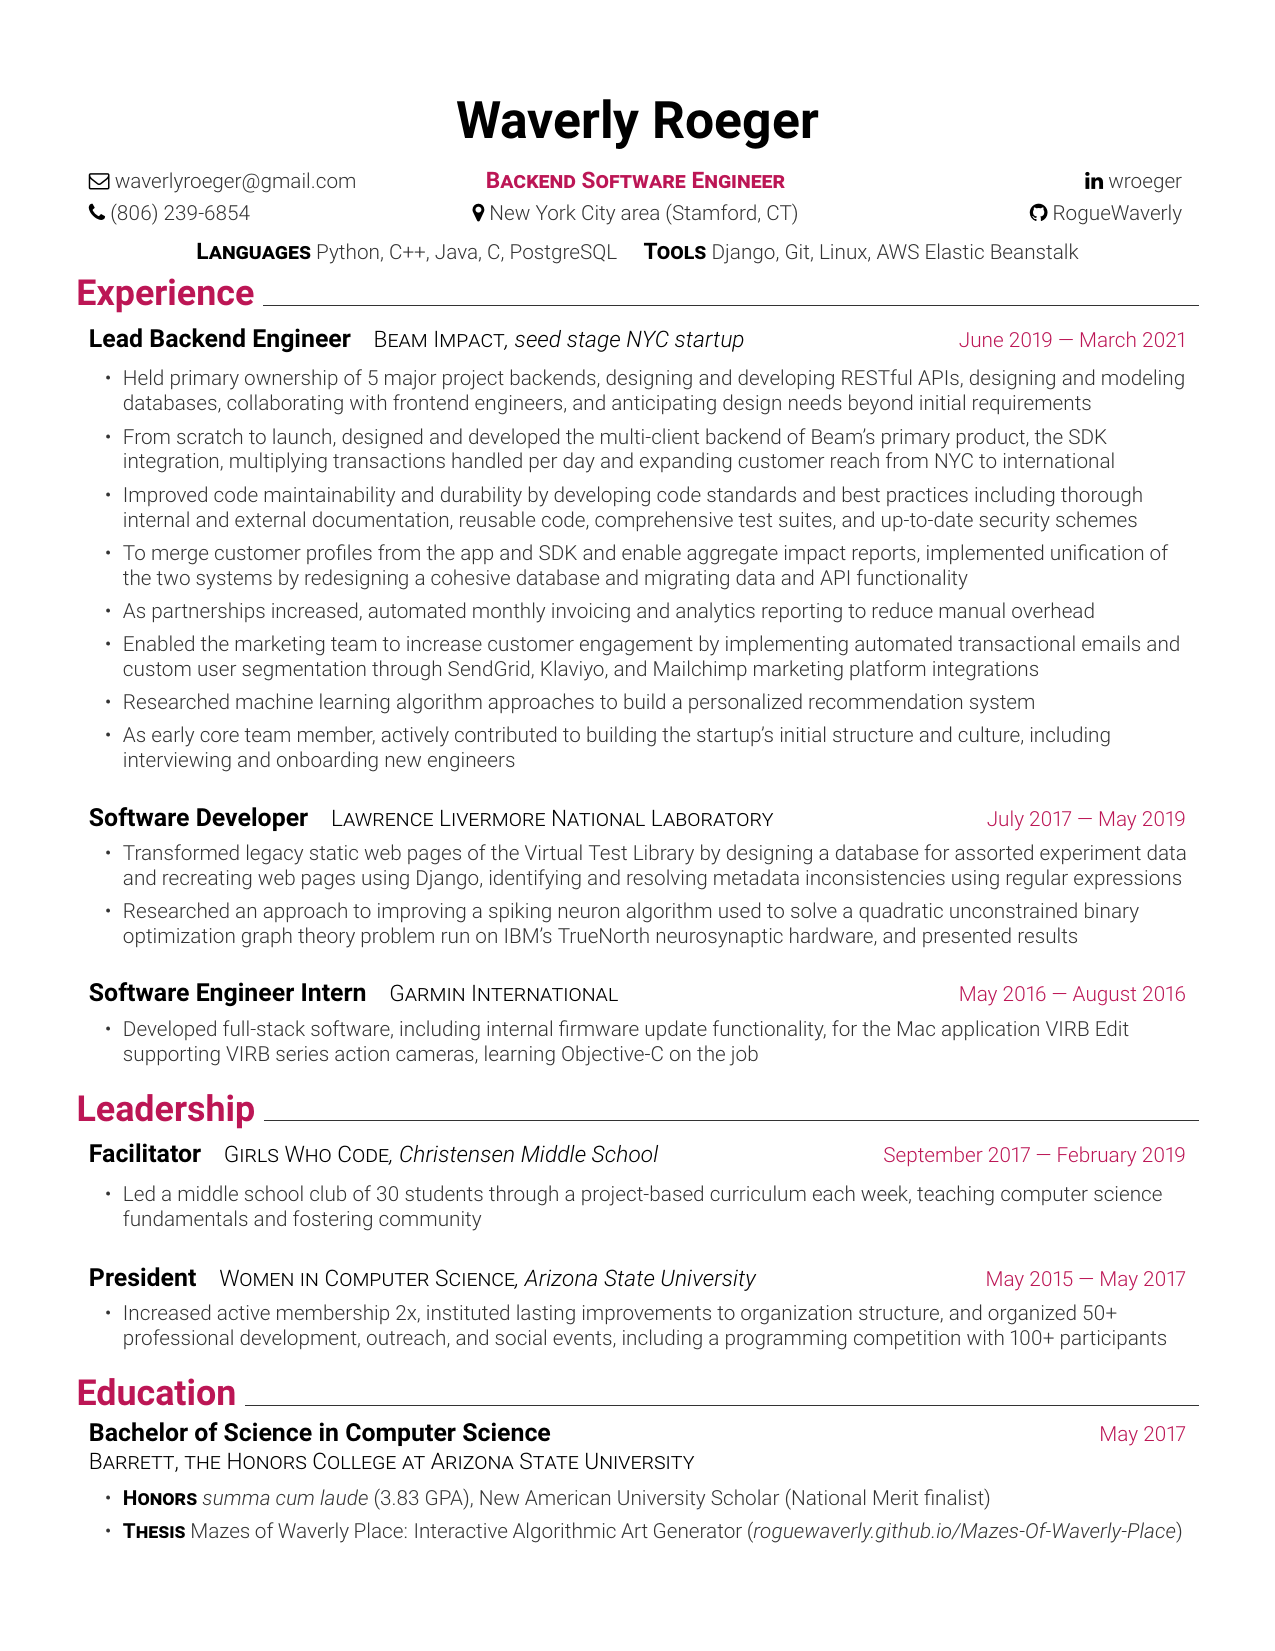
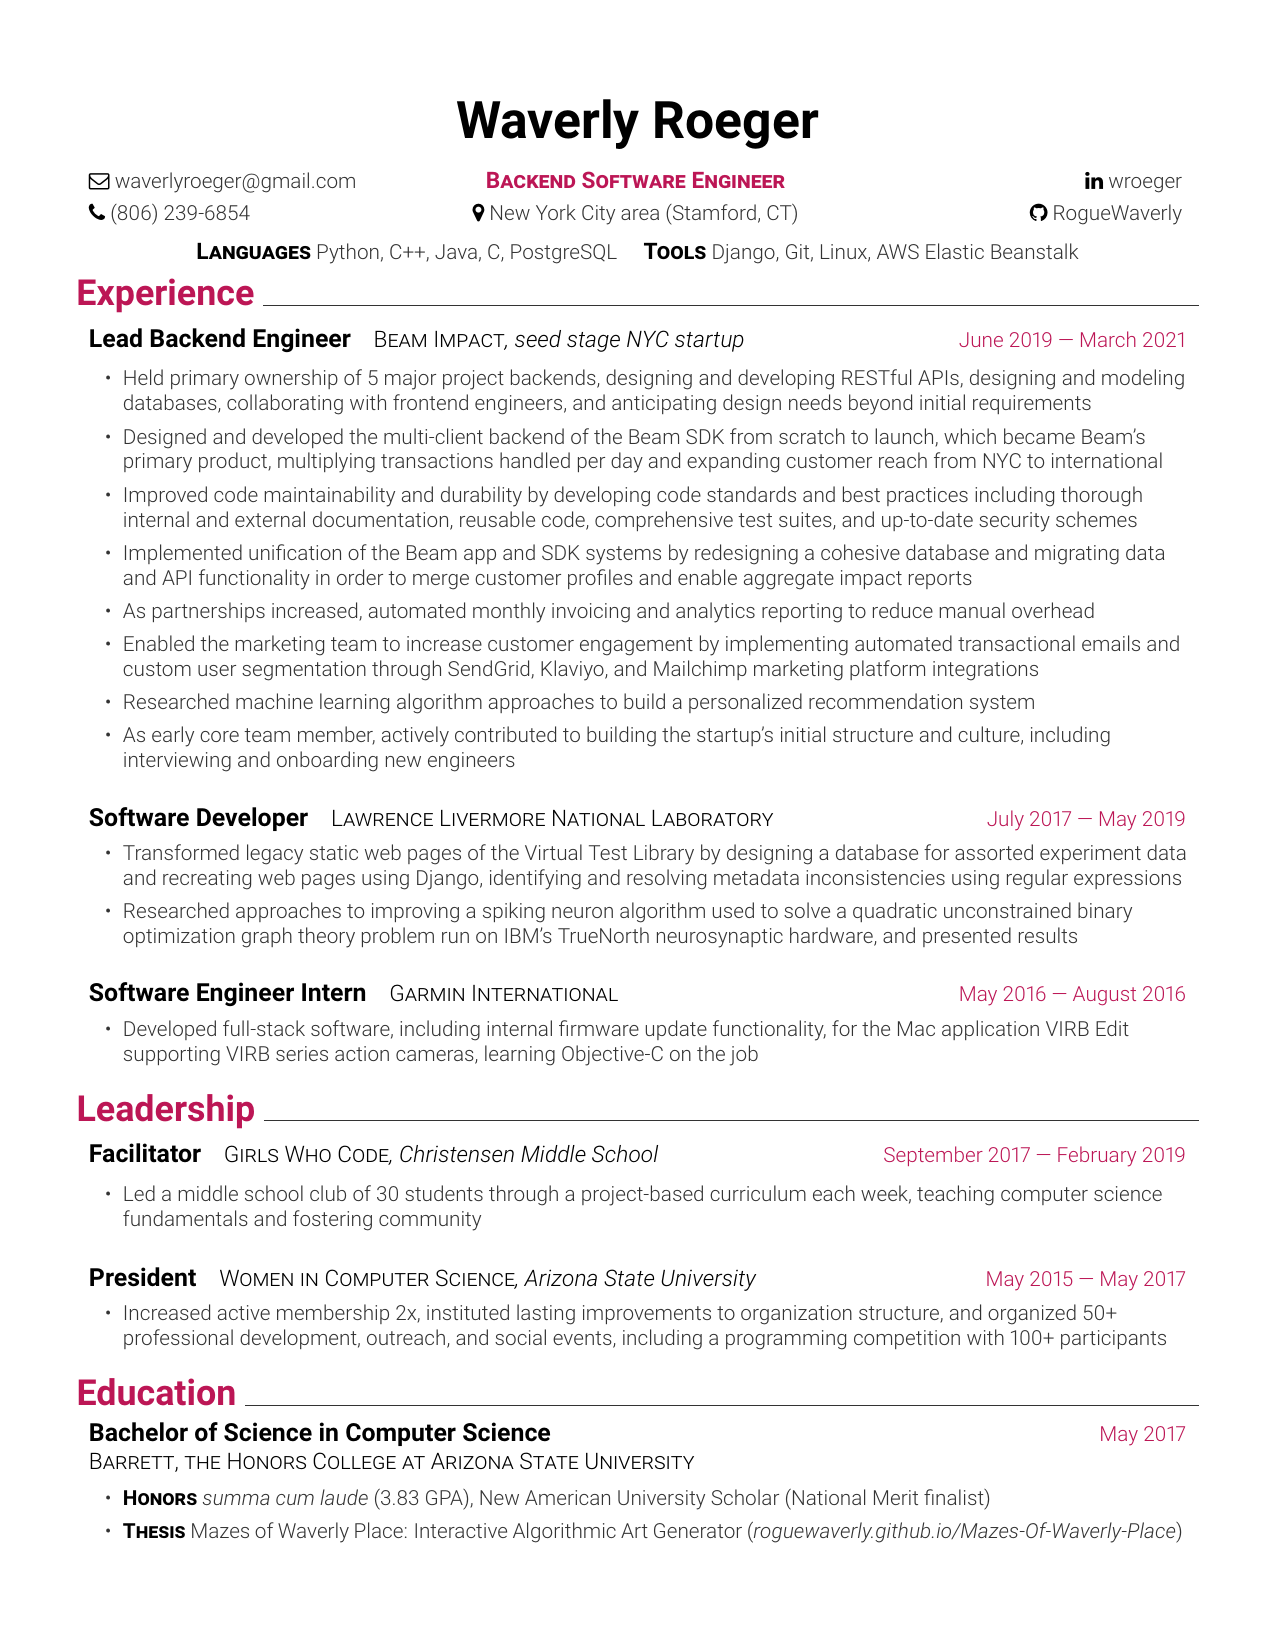
Update bullet points for clarity and accuracy

Changed region(s): [[0.0918, 0.2471, 0.9176, 0.3707], [0.2141, 0.5251, 0.8871, 0.556]]

diff --git a/resume.tex b/resume.tex
@@ -128,11 +128,11 @@
     \resumeItem
     {Held primary ownership of 5 major project backends, designing and developing RESTful APIs, designing and modeling databases, collaborating with frontend engineers, and anticipating design needs beyond initial requirements}
     \resumeItem
-    {From scratch to launch, designed and developed the multi-client backend of Beam's primary product, the SDK integration, multiplying transactions handled per day and expanding customer reach from NYC to international}
+    {Designed and developed the multi-client backend of the Beam SDK from scratch to launch, which became Beam's primary product, multiplying transactions handled per day and expanding customer reach from NYC to international}
     \resumeItem
     {Improved code maintainability and durability by developing code standards and best practices including thorough internal and external documentation, reusable code, comprehensive test suites, and up-to-date security schemes}
     \resumeItem
-    {To merge customer profiles from the app and SDK and enable aggregate impact reports, implemented unification of the two systems by redesigning a cohesive database and migrating data and API functionality}
+    {Implemented unification of the Beam app and SDK systems by redesigning a cohesive database and migrating data and API functionality in order to merge customer profiles and enable aggregate impact reports}
     \resumeItem
     {As partnerships increased, automated monthly invoicing and analytics reporting to reduce manual overhead}
     \resumeItem
@@ -150,7 +150,7 @@
     \resumeItem
     {Transformed legacy static web pages of the Virtual Test Library by designing a database for assorted experiment data and recreating web pages using Django, identifying and resolving metadata inconsistencies using regular expressions}
     \resumeItem
-    {Researched an approach to improving a spiking neuron algorithm used to solve a quadratic unconstrained binary optimization graph theory problem run on IBM's TrueNorth neurosynaptic hardware, and presented results}
+    {Researched approaches to improving a spiking neuron algorithm used to solve a quadratic unconstrained binary optimization graph theory problem run on IBM's TrueNorth neurosynaptic hardware, and presented results}
   \end{resumeItemize}
   %------ GARMIN -----------
 	\resumeSubsection
